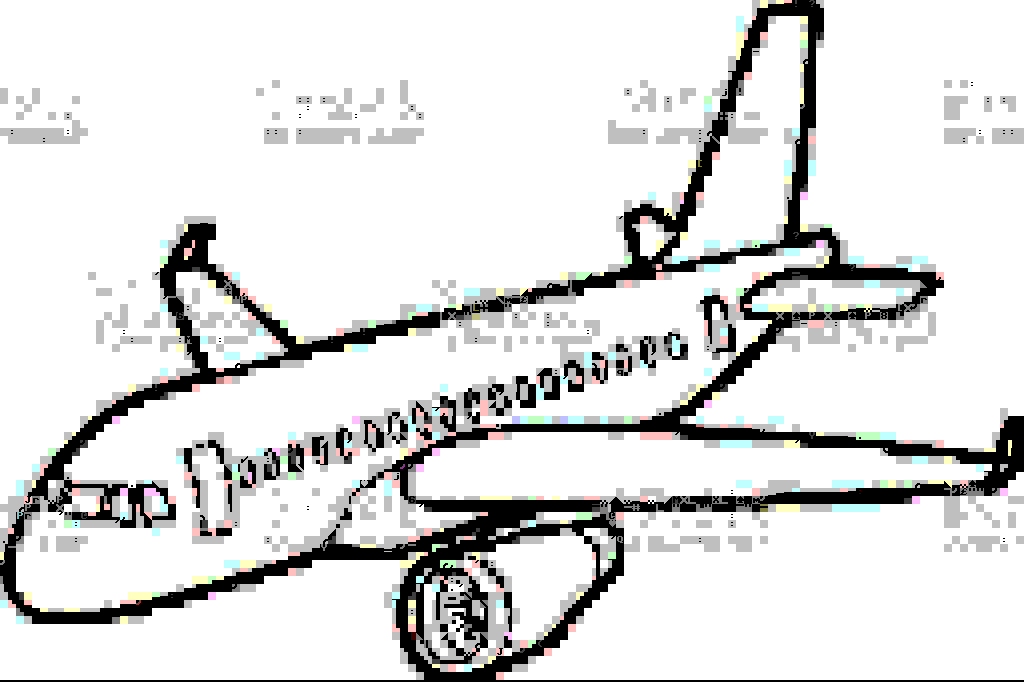
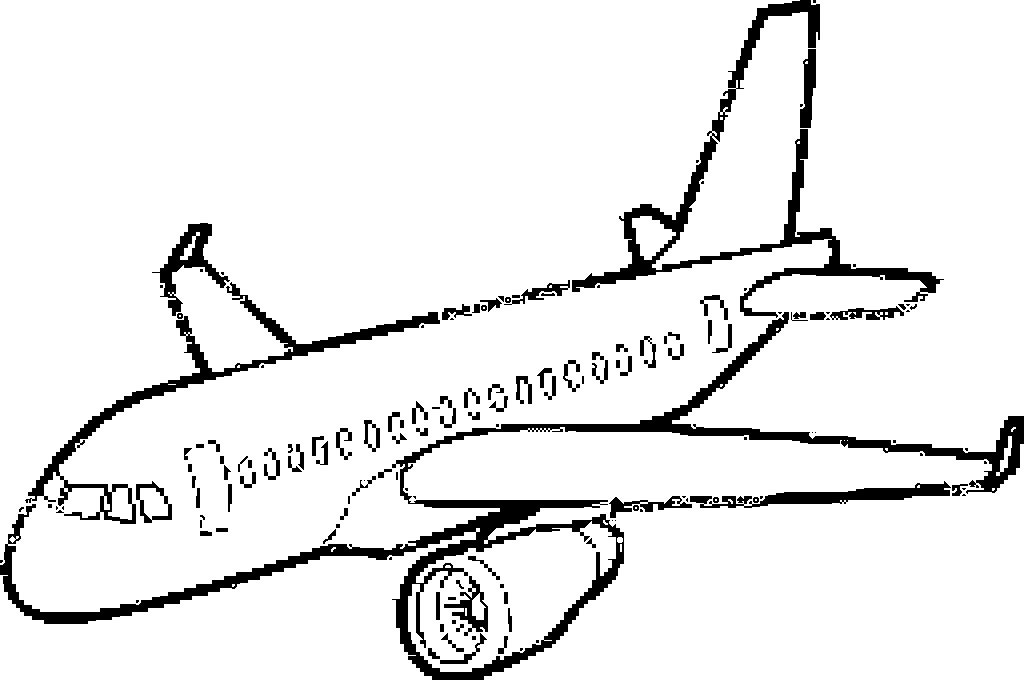
nothing core to the algo changed. added more fonts & maps, now you can choose whether to shade the image.

diff --git a/Program.cs b/Program.cs
@@ -25,19 +25,24 @@ namespace PetsciiMapgen
       // everything i've checked, 2x2x16 is the best possible combo.
 
       //PetsciiMap map = new PetsciiMap("..\\..\\img\\fonts\\c64_uppercase_norm.png", new Size(8, 8), new Size(2, 2), 16);
-      PetsciiMap map = new PetsciiMap("..\\..\\img\\fonts\\c64_all.gif", new Size(8, 8), new Size(2, 2), 16);
-      //PetsciiMap map = new PetsciiMap("..\\..\\img\\fonts\\topaznew.gif", new Size(8, 16), new Size(2, 2), 12);
+      PetsciiMap map = new PetsciiMap("..\\..\\img\\fonts\\c64_all_onlyblock.gif", new Size(8, 8), new Size(2, 2), 16);
+      //PetsciiMap map = new PetsciiMap("..\\..\\img\\fonts\\c64_all.gif", new Size(8, 8), new Size(1, 1), 256);
+      //PetsciiMap map = new PetsciiMap("..\\..\\img\\fonts\\test-16blocks8x8.png", new Size(8, 8), new Size(2, 2), 2);
+      //PetsciiMap map = new PetsciiMap("..\\..\\img\\fonts\\topaznew.gif", new Size(8, 16), new Size(2, 2), 16);
+      //PetsciiMap map = new PetsciiMap("..\\..\\img\\fonts\\topaznew-rvs.gif", new Size(8, 16), new Size(2, 2), 16);
       //PetsciiMap map = new PetsciiMap("..\\..\\img\\fonts\\Vga-rom-font.png", new Size(8, 16), new Size(2, 2), 16);
-      //PetsciiMap map = new PetsciiMap("..\\..\\img\\fonts\\Vga-rom-font-RVS.png", new Size(8, 16), new Size(2, 2), 12);
+      //PetsciiMap map = new PetsciiMap("..\\..\\img\\fonts\\Vga-rom-font-RVS.png", new Size(8, 16), new Size(2, 2), 16);
+      //PetsciiMap map = new PetsciiMap("..\\..\\img\\fonts\\VGA-Boxonly.png", new Size(8, 16), new Size(2, 2), 16);
 
-      map.PETSCIIIZE("..\\..\\img\\airplane.jpg", "..\\..\\img\\testdest-airplane.png");
-      map.PETSCIIIZE("..\\..\\img\\david.jpg", "..\\..\\img\\testdest-david.png");
-      map.PETSCIIIZE("..\\..\\img\\david192.jpg", "..\\..\\img\\testdest-david192.png");
-      map.PETSCIIIZE("..\\..\\img\\monalisa1024.jpg", "..\\..\\img\\testdest-monalisa1024.png");
-      map.PETSCIIIZE("..\\..\\img\\monalisa512.jpg", "..\\..\\img\\testdest-monalisa512.png");
-      map.PETSCIIIZE("..\\..\\img\\atomium.jpg", "..\\..\\img\\testdest-atomium.png");
-      map.PETSCIIIZE("..\\..\\img\\balloon1200.jpg", "..\\..\\img\\testdest-balloon1200.png");
-      map.PETSCIIIZE("..\\..\\img\\balloon600.jpg", "..\\..\\img\\testdest-balloon600.png");
+      map.PETSCIIIZE("..\\..\\img\\airplane.jpg", "..\\..\\img\\testdest-airplane.png", false);
+      map.PETSCIIIZE("..\\..\\img\\circle.png", "..\\..\\img\\testdest-circle.png", false);
+      map.PETSCIIIZE("..\\..\\img\\david.jpg", "..\\..\\img\\testdest-david.png", false);
+      map.PETSCIIIZE("..\\..\\img\\david192.jpg", "..\\..\\img\\testdest-david192.png", false);
+      map.PETSCIIIZE("..\\..\\img\\monalisa1024.jpg", "..\\..\\img\\testdest-monalisa1024.png", false);
+      map.PETSCIIIZE("..\\..\\img\\monalisa512.jpg", "..\\..\\img\\testdest-monalisa512.png", false);
+      map.PETSCIIIZE("..\\..\\img\\atomium.jpg", "..\\..\\img\\testdest-atomium.png", false);
+      map.PETSCIIIZE("..\\..\\img\\balloon1200.jpg", "..\\..\\img\\testdest-balloon1200.png", false);
+      map.PETSCIIIZE("..\\..\\img\\balloon600.jpg", "..\\..\\img\\testdest-balloon600.png", false);
     }
   }
 }

diff --git a/PetsciiMapgen.cs b/PetsciiMapgen.cs
@@ -278,7 +278,7 @@ namespace PetsciiMapgen
     }
 
 
-    public void PETSCIIIZE(string srcImagePath, string destImagePath)
+    public void PETSCIIIZE(string srcImagePath, string destImagePath, bool shade)
     {
       var testImg = Image.FromFile(srcImagePath);
       Bitmap testBmp = new Bitmap(testImg);
@@ -331,20 +331,24 @@ namespace PetsciiMapgen
         }
       }
 
-      Func<double, double> TransformColorant = (double c) =>
+      if (shade)
       {
-        return (double)Math.Floor(c / .25f) * .25f;
-      };
+        Func<double, double> TransformColorant = (double c) =>
+        {
+          return (double)Math.Floor(c / .25f) * .25f;
+        };
 
-      Utils.TransformPixels(testBmp, c =>
-      {
-        c.r = TransformColorant(c.r);
-        c.g = TransformColorant(c.g);
-        c.b = TransformColorant(c.b);
-        return c;
-      });
-      Utils.Pixellate(testBmp, charSize);
-      Utils.Multiply(destImg, testBmp);
+        Utils.TransformPixels(testBmp, c =>
+        {
+          c.r = TransformColorant(c.r);
+          c.g = TransformColorant(c.g);
+          c.b = TransformColorant(c.b);
+          return c;
+        });
+        Utils.Pixellate(testBmp, charSize);
+        Utils.Multiply(destImg, testBmp);
+      }
+
 
       destImg.Save(destImagePath);
     }
